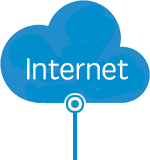
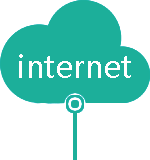
update network topology

diff --git a/eoncloud_web/render/static/cloud/views/network_topology.html b/eoncloud_web/render/static/cloud/views/network_topology.html
@@ -10,10 +10,10 @@
         </div>
         <!-- BEGIN INSTANCE  -->
         <div class="portlet box">
-            <div class="portlet-body">
+            <div class="portlet-body" style="margin: 0 auto;">
 
-                <div id="" class="" style="">
-                    <div id="topologyCanvasContainer" style="padding:10px 14px;overflow-x:auto;">
+                <div id="network_topology" class="" style="width: {[{svg_width}]}px;margin: 0 auto;">
+                    <div id="topologyCanvasContainer" style="padding:10px 14px;">
                         <div id="topoTop" style="width: {[{svg_width}]}px;">
                             <div class="internetCloud">
 
@@ -23,7 +23,7 @@
                         </div>
                         <style type="text/css">
                             svg.routerSvg .router_small .frame{
-                                fill: #218ccc;
+                                fill: #1caf9a;
                                 stroke: #fff;
                                 stroke-width: 3;
                             }
@@ -153,21 +153,21 @@
                         </svg>
                         <svg id="topology_tml" display="none">
                             <g class="router_container_normal">
-                                <line x1="60" y1="0" x2="60" y2="0" stroke="#218ccc" stroke-width="3" class="router-line"></line>
+                                <line x1="60" y1="0" x2="60" y2="0" stroke="#1caf9a" stroke-width="3" class="router-line"></line>
                                 <text x="0" y="-65" class="router-gateway" transform="rotate(90 0 0)">qqqqqqqqqq</text>
-                                <rect rx="20" ry="20" width="124" height="100" style="fill: rgb(31, 119, 180);" class="router-rect">
+                                <rect rx="20" ry="20" width="124" height="100" style="fill: rgb(28, 175, 154);" class="router-rect">
                                 </rect>
                                 <image x="35" y="5" width="55" xlink:href="/static/assets/admin/layout/img/router.png"
                                        height="55" preserveAspectRatio="none"/>
                                 <text x="35" y="80" class="router-text">router-20</text>
                             </g>
                             <g class="router_line_normal">
-                                <line x1="230" y1="100" x2="230" y2="120" stroke="#218ccc" stroke-width="3" class="router-line router-line-h"></line>
-                                <line x1="0" y1="120" x2="460" y2="120" stroke="#218ccc" stroke-width="3" class="router-line router-line-v"></line>
+                                <line x1="230" y1="100" x2="230" y2="120" stroke="#1caf9a" stroke-width="3" class="router-line router-line-h"></line>
+                                <line x1="0" y1="120" x2="460" y2="120" stroke="#1caf9a" stroke-width="3" class="router-line router-line-v"></line>
                             </g>
                             <g class="network_container_normal">
-                                <line x1="10" y1="0" x2="10" y2="-50" stroke="#218ccc" stroke-width="3" class="network-line"></line>
-                                <rect rx="0" ry="0" width="20" height="500" style="fill: rgb(31, 119, 180);" class="network-rect"></rect>
+                                <line x1="10" y1="0" x2="10" y2="-50" stroke="#1caf9a" stroke-width="3" class="network-line"></line>
+                                <rect rx="0" ry="0" width="20" height="500" style="fill: rgb(28, 175, 154);" class="network-rect"></rect>
                                 <g class="pointsTop">
                                     <rect x="4" y="10" fill="#fff" width="4" height="4"></rect>
                                     <rect x="4" y="20" fill="#fff" width="4" height="4"></rect>
@@ -220,7 +220,7 @@
                             <g class="instance_normal device_body">
                                 <g class="ports" pointer-events="none" transform="translate(0,25)">
                                     <g class="port"  >
-                                        <line class="port_line" stroke-width="6" stroke="#1f77b4" x1="0" y1="0" y2="0" x2="-82"></line>
+                                        <line class="port_line" stroke-width="6" stroke="#1caf9a" x1="0" y1="0" y2="0" x2="-82"></line>
                                         <text class="port_text left" x="-6" y="-4">10.1.1.9</text>
                                     </g>
                                 </g>

diff --git a/eoncloud_web/render/static/assets/admin/layout/css/network_topology.css b/eoncloud_web/render/static/assets/admin/layout/css/network_topology.css
@@ -13,20 +13,20 @@
 }
 
 #topologyCanvasContainer .horLine {
-  border-bottom: 6px solid #218ccc;
+  border-bottom: 6px solid #1caf9a;
 }
 
 #topologyCanvasContainer .verLine {
   margin: 0 auto;
   width: 3px;
   height: 50px;
-  background: #218ccc;
+  background: #1caf9a;
 }
 
 #topologyCanvasContainer .routerW.hasRouter {
-  border: 3px solid #218ccc;
+  border: 3px solid #1caf9a;
   border-radius: 5px;
-  background: #218ccc;
+  background: #1caf9a;
 }
 
 #topologyCanvasContainer .routerW {
@@ -35,6 +35,6 @@
   padding-top: 5px;
   padding-bottom: 5px;
   width: 130px;
-  border-top: 3px solid #218ccc;
-  border-bottom: 3px solid #218ccc;
+  border-top: 3px solid #1caf9a;
+  border-bottom: 3px solid #1caf9a;
 }
